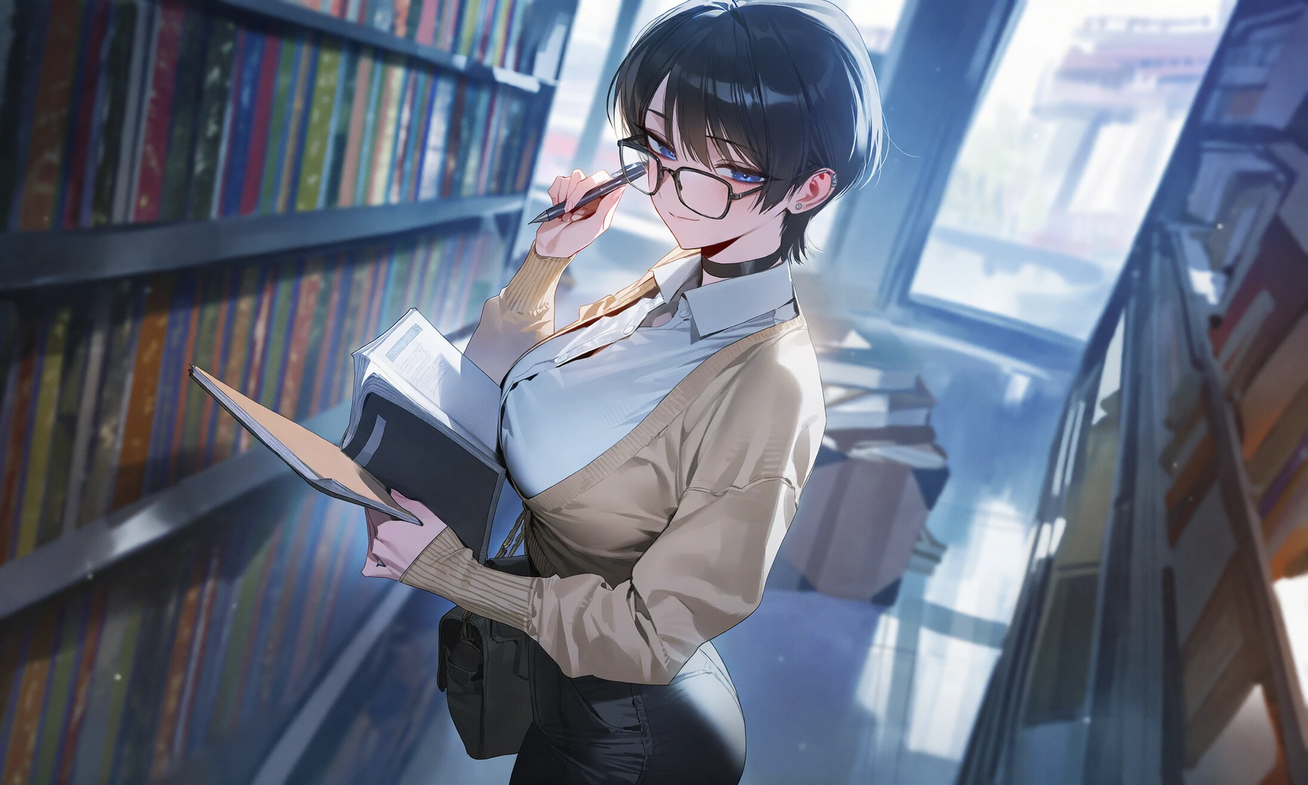
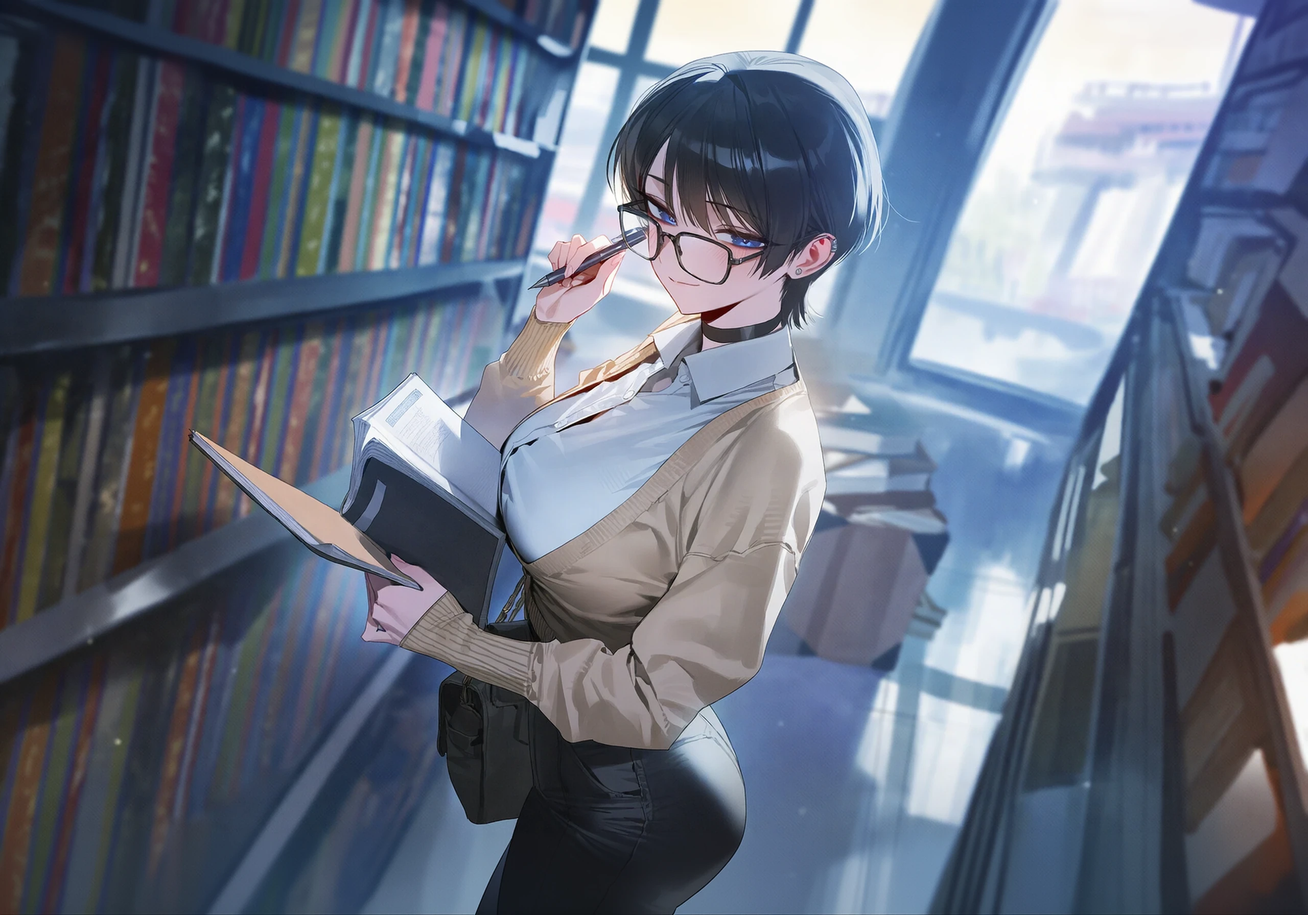
Suhyun tablet morning/day: extend top and bottom to iPad ratio (2560x1792)
Outpaint 96px above and below the 1920x1152 redraw so the whole picture
shows on iPad (1.44) and only the added bands are cropped on Tab A11.
gen_scenes: extend-wide command; evening scene direction from review.

Claude-Session: https://claude.ai/code/session_01B8pQbEtRSQUAPjrPy7M14y

diff --git a/characters/IMAGE_PLAN.md b/characters/IMAGE_PLAN.md
@@ -10,9 +10,9 @@
 ## 원칙
 - **폰·태블릿 두 벌 (11/5 확정):** 장면마다 세로(폰)용과 가로(태블릿)용을 따로 만든다. 앱은 화면이 가로면 가로용, 세로면 세로용을 쓴다.
   - 폰 세로: **832×1216** 무료 생성 → (필요하면 위아래 아웃페인트) → 1080×2340 → `assets/<코드>/scene/<시간대>.webp`
-  - 태블릿 가로: **1280×768** 무료 생성 → **2560×1536** → `assets/<코드>/scene-wide/<시간대>.webp`
+  - 태블릿 가로: **1280×768** 무료 생성 → img2img 1920×1152 → 위아래 아웃페인트 1920×1344 → **2560×1792** → `assets/<코드>/scene-wide/<시간대>.webp` (`gen_scenes.py up-wide` → `extend-wide`, 약 16 + 52 Anlas)
     - 기준 기기: 갤럭시 탭 A11 (1340×800, 1.68 — 거의 그대로 꽉 참) · iPad 10.9~11인치 (2360×1640, 1.44 — 좌우 7%씩 잘림)
-    - 한 벌로 두 기기를 다 쓴다. 인물·중요한 소품은 가운데 70% 안에 둔다.
+    - 한 벌로 두 기기를 다 쓴다. iPad에서는 그림 전체가 보이고, 탭 A11에서는 늘린 위아래 띠만 잘린다.
   - 보상씬도 같음: `reward/<키>.webp`(세로), `reward-wide/<키>.webp`(가로)
   - 이유: 서브컬처 그림은 가로·덜 긴 세로에서 구도가 안정적이다. 1:2.2로 바로 뽑으면 몸이 늘어나고 얼굴이 멀어진다.
 - **검수:** 장면마다 후보 5~10장을 검수 페이지에 올려 사용자가 고른다.
